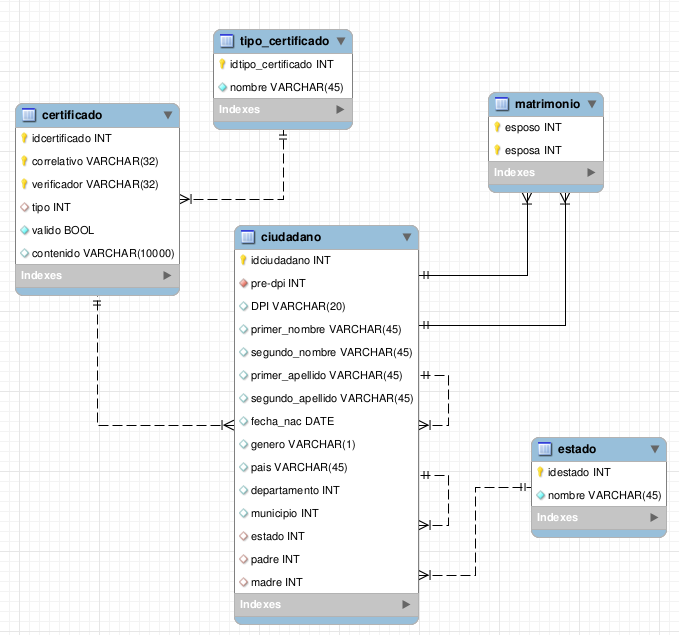
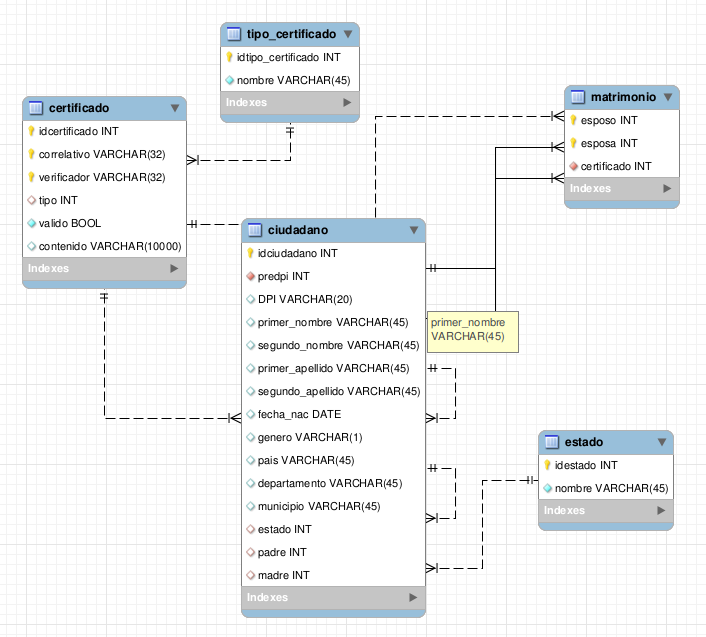
Cambio en la base de datos y en la clase dbConn

diff --git a/src/java/db/dbConn.java b/src/java/db/dbConn.java
@@ -11,6 +11,7 @@ import java.sql.PreparedStatement;
 import java.sql.ResultSet;
 import java.sql.SQLException;
 import java.sql.Statement;
+import java.util.List;
 import java.util.logging.Level;
 import java.util.logging.Logger;
 
@@ -23,13 +24,13 @@ public class dbConn {
     private final String url;
     private final String username;
     private final String password;
-    
+
     private final Connection conn;
 
     public dbConn() {
         this.url = "jdbc:mysql://ec2-54-186-237-148.us-west-2.compute.amazonaws.com:3306/mydb";
-        this.username = "*****";
-        this.password = "*****";
+        this.username = "root";
+        this.password = "admin";
         this.conn = getConexion();
     }
 
@@ -46,61 +47,6 @@ public class dbConn {
         } catch (Exception e) {
             System.out.println("No se pudo crear la conexion a la DB\n" + e);
             return null;
-        }
-    }
-
-    public int inscribirCiudadano(String n1, String n2, String a1, String a2, String fecha, String gen, String pais, String dpto, String mun) throws SQLException {
-
-        if (conn != null) {
-            int predpi = generarInscripcion();
-            PreparedStatement query = conn.prepareStatement("INSERT INTO ciudadano"
-                    + "(predpi,primer_nombre,segundo_nombre,primer_apellido,segundo_apellido,fecha_nac,genero,pais,departamento,municipio,estado) "
-                    + "VALUES (?,?,?,?,?,?,?,?,?,?,?);");
-
-            query.setInt(1, predpi);
-            query.setString(2, n1);
-            query.setString(3, n2);
-            query.setString(4, a1);
-            query.setString(5, a2);
-            query.setString(6, fecha);
-            query.setString(7, gen);
-            query.setString(8, pais);
-            query.setString(9, dpto);
-            query.setString(10, mun);
-            query.setInt(11, 2);
-            int r = query.executeUpdate();
-            return r;
-        } else {
-            return -1;
-        }
-    }
-
-    //CASI TERMINADO
-    private int generarInscripcion() {
-        String correlativo;
-        String verificador;
-
-        try {
-            ejecutar("INSERT INTO correlativos VALUES(null);");
-            correlativo = ejecutarQueryForString("SELECT md5(inc) FROM correlativos ORDER BY inc DESC LIMIT 1;","md5(inc)");
-
-            ejecutar("INSERT INTO verificadores VALUES(null);");
-            verificador = ejecutarQueryForString("SELECT md5(inc) FROM verificadores ORDER BY inc DESC LIMIT 1;","md5(inc)");
-
-            PreparedStatement ps = conn.prepareStatement("INSERT INTO certificado(correlativo,verificador,tipo,valido,contenido) VALUES(?,?,1,1,?)");
-            ps.setString(1, correlativo);
-            ps.setString(2, verificador);
-            ps.setString(3, "Proximamente en cines...");
-            ps.executeUpdate();
-
-            return ejecutarQueryForInt("SELECT idcertificado "
-                    + "FROM certificado " 
-                    + "WHERE correlativo = '" + correlativo + "' "
-                    + "AND verificador = '" + verificador + "';", "idcertificado");
-
-        } catch (SQLException ex) {
-            Logger.getLogger(dbConn.class.getName()).log(Level.SEVERE, null, ex);
-            return -1;
         }
     }
 
@@ -125,5 +71,66 @@ public class dbConn {
         ResultSet rs = stmt.executeQuery(query);
         rs.next();
         return rs.getInt(paramName);
+    }
+
+    // RETORNA UN RESULT SET
+    public ResultSet ejecutarQuery(String query) throws SQLException {
+        Statement stmt = conn.createStatement();
+        ResultSet rs = stmt.executeQuery(query);
+        return rs;
+    }
+
+    // TIPOS DE CERTIFICADO (NACIMIENTO = 1, MATRIMONIO = 2, DEFUNCION = 3)
+    // RETORNA UN ARRAY DE STRINGS CON [id,correlativo,verificador] DEL CERTIFICADO CREADO
+    public String[] generarCertificado(int tipo) {
+        String correlativo;
+        String verificador;
+        int id;
+
+        try {
+            ejecutar("INSERT INTO correlativos VALUES(null);");
+            correlativo = ejecutarQueryForString("SELECT md5(inc) FROM correlativos ORDER BY inc DESC LIMIT 1;", "md5(inc)");
+
+            ejecutar("INSERT INTO verificadores VALUES(null);");
+            verificador = ejecutarQueryForString("SELECT md5(inc) FROM verificadores ORDER BY inc DESC LIMIT 1;", "md5(inc)");
+
+            PreparedStatement ps = conn.prepareStatement("INSERT INTO certificado(correlativo,verificador,tipo,valido,contenido) VALUES(?,?,1,1,?)");
+            ps.setString(1, correlativo);
+            ps.setString(2, verificador);
+            ps.setString(3, "Proximamente en cines...");
+            ps.executeUpdate();
+
+            id = ejecutarQueryForInt("SELECT idcertificado "
+                    + "FROM certificado "
+                    + "WHERE correlativo = '" + correlativo + "' "
+                    + "AND verificador = '" + verificador + "';", "idcertificado");
+
+            String[] datos = new String[3];
+            datos[0] = id + "";
+            datos[1] = correlativo;
+            datos[2] = verificador;
+
+            return datos;
+
+        } catch (SQLException ex) {
+            Logger.getLogger(dbConn.class.getName()).log(Level.SEVERE, null, ex);
+            return null;
+        }
+
+    }
+
+    // RECIBE UNA LISTA DE STRING[2], POSICION 0 NOMBRE DEL CAMPO, POSICION 1 VALOR
+    // SE GUARRDA EN EL CAMPO 'contenido' DE LA ENTIDAD CERTIFICADO
+    public String generarCertificadoHTML(List<String[]> datos) {
+        String cert = "<h1>RENAP</h1>\n";
+        cert += "<table>\n";
+        
+        for(String[] item : datos){
+            cert += "<tr><td>"+item[0]+"</td><td>"+item[1]+"</td></tr>\n";
+        }
+        
+        cert += "</table>\n";
+        
+        return cert;
     }
 }

diff --git a/src/java/db/ServiciosCarlos.java b/src/java/db/ServiciosCarlos.java
@@ -1,0 +1,83 @@
+/*
+ * To change this license header, choose License Headers in Project Properties.
+ * To change this template file, choose Tools | Templates
+ * and open the template in the editor.
+ */
+package db;
+
+import java.sql.Connection;
+import java.sql.PreparedStatement;
+import java.sql.SQLException;
+import java.util.logging.Level;
+import java.util.logging.Logger;
+
+/**
+ *
+ * @author carlosrodf
+ */
+public class ServiciosCarlos {
+    
+    private Connection conn;
+    private dbConn db;
+
+    public ServiciosCarlos() {
+        this.db = new dbConn();
+        this.conn = db.getConexion();
+    }
+    
+    public int inscribirCiudadano(String n1, String n2, String a1, String a2, String fecha, String gen, String pais, String dpto, String mun) throws SQLException {
+
+        if (conn != null) {
+            String[] datos = this.db.generarCertificado(1);
+            PreparedStatement query = conn.prepareStatement("INSERT INTO ciudadano"
+                    + "(predpi,primer_nombre,segundo_nombre,primer_apellido,segundo_apellido,fecha_nac,genero,pais,departamento,municipio,estado) "
+                    + "VALUES (?,?,?,?,?,?,?,?,?,?,?);");
+
+            query.setInt(1, Integer.parseInt(datos[0]));
+            query.setString(2, n1);
+            query.setString(3, n2);
+            query.setString(4, a1);
+            query.setString(5, a2);
+            query.setString(6, fecha);
+            query.setString(7, gen);
+            query.setString(8, pais);
+            query.setString(9, dpto);
+            query.setString(10, mun);
+            query.setInt(11, 2);
+            int r = query.executeUpdate();
+            return r;
+        } else {
+            return -1;
+        }
+    }
+
+    //CASI TERMINADO
+    private int generarInscripcion() {
+        String correlativo;
+        String verificador;
+
+        try {
+            this.db.ejecutar("INSERT INTO correlativos VALUES(null);");
+            correlativo = this.db.ejecutarQueryForString("SELECT md5(inc) FROM correlativos ORDER BY inc DESC LIMIT 1;","md5(inc)");
+
+            this.db.ejecutar("INSERT INTO verificadores VALUES(null);");
+            verificador = this.db.ejecutarQueryForString("SELECT md5(inc) FROM verificadores ORDER BY inc DESC LIMIT 1;","md5(inc)");
+
+            PreparedStatement ps = conn.prepareStatement("INSERT INTO certificado(correlativo,verificador,tipo,valido,contenido) VALUES(?,?,1,1,?)");
+            ps.setString(1, correlativo);
+            ps.setString(2, verificador);
+            ps.setString(3, "Proximamente en cines...");
+            ps.executeUpdate();
+
+            return this.db.ejecutarQueryForInt("SELECT idcertificado "
+                    + "FROM certificado " 
+                    + "WHERE correlativo = '" + correlativo + "' "
+                    + "AND verificador = '" + verificador + "';", "idcertificado");
+
+        } catch (SQLException ex) {
+            Logger.getLogger(dbConn.class.getName()).log(Level.SEVERE, null, ex);
+            return -1;
+        }
+    }
+    
+}

diff --git a/src/java/Servicios/RENAP.java b/src/java/Servicios/RENAP.java
@@ -6,7 +6,7 @@
 package Servicios;
 
 import db.MatrimonioQuery;
-import db.dbConn;
+import db.ServiciosCarlos;
 import java.sql.SQLException;
 import javax.jws.WebService;
 import javax.jws.WebMethod;
@@ -45,7 +45,7 @@ public class RENAP {
             @WebParam(name = "departamento") String dpto,
             @WebParam(name = "municipio") String municipio) {
 
-        dbConn inf = new dbConn();
+        ServiciosCarlos inf = new ServiciosCarlos();
         try {
             int res =  inf.inscribirCiudadano(nombre1, nombre2, apellido1, apellido2, fechanac, genero, pais, dpto, municipio);
             if(res > 0){
